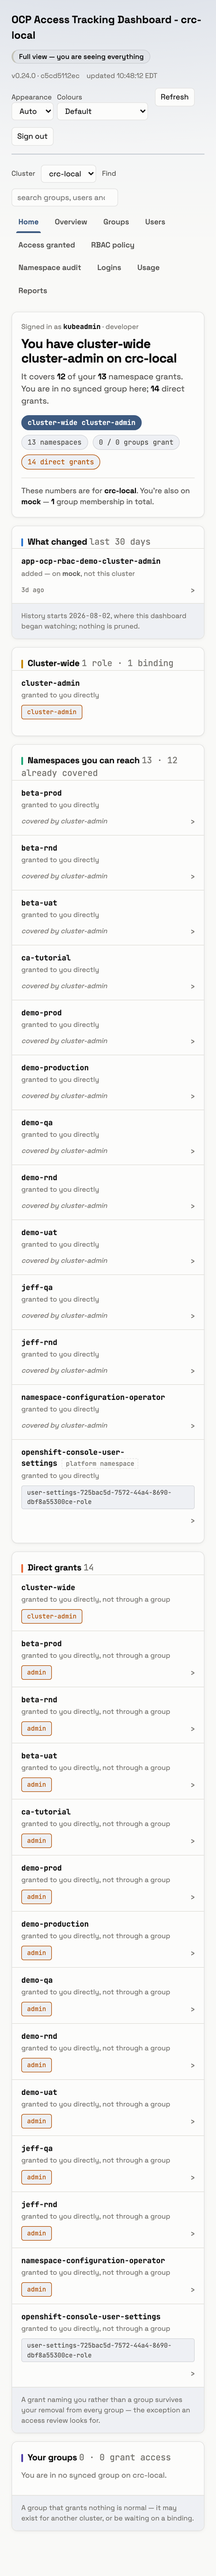
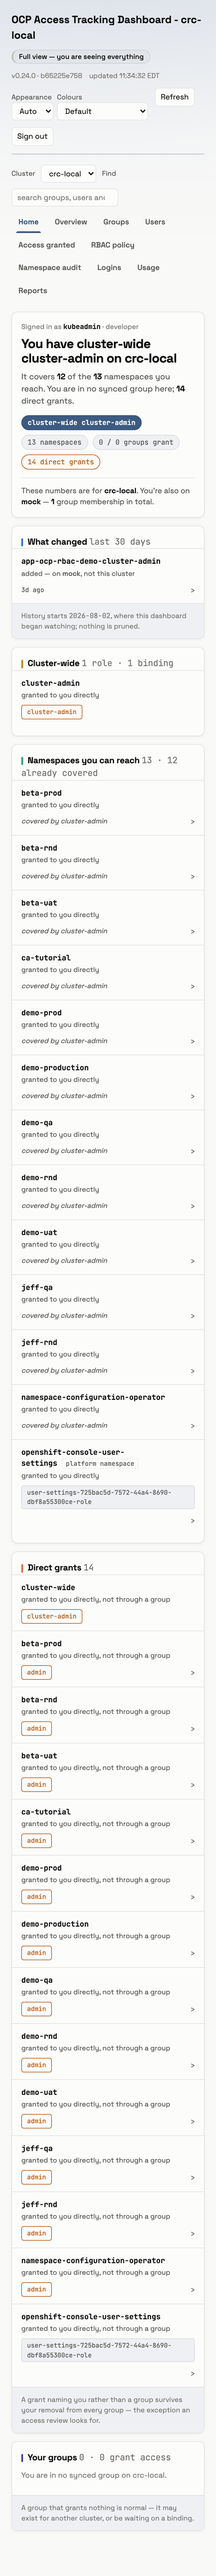
reports: recapture Home's live evidence at b65225e — the first pair showed the label Codex found by reading it
The captures committed at c5cd511 read 'covers 12 of your 13 namespace grants' over thirteen namespaces.
Codex found that mislabel by reading this folder, which is the argument for committing evidence rather
than describing it. The live pair is recaptured at b65225e, where it reads '12 of the 13 namespaces you
reach'; the README says which commit each picture is from and why the two differ.

diff --git a/reports/2026-09-18_home-158/README.md b/reports/2026-09-18_home-158/README.md
@@ -1,14 +1,21 @@
 # Home — the page every reader lands on (#158)
 
-Evidence for issue #158, captured 2026-09-18 at commit `c5cd511` on branch `feat/home` (PR #186).
-Application `0.24.0-c5cd5112ec`, chart `0.33.0`, on CRC (`crc-local`) with the mock cluster beside it.
+Evidence for issue #158, captured 2026-09-18 on branch `feat/home` (PR #186), on CRC (`crc-local`) with the
+mock cluster beside it, chart `0.33.0`.
+
+The live captures (`01`, `02`) are from **`b65225e`** (`0.24.0-b65225e758`); the tier pair (`03`–`06`) and
+the dark theme (`07`) are from `c5cd511`, which differs from `b65225e` only in copy and contrast, not in
+what those four pictures are there to show. The live pair was **recaptured**: the first version, taken at
+`c5cd511`, read *"covers 12 of your 13 namespace grants"* over thirteen namespaces — a mislabel Codex found
+by reading this very folder, which is the argument for committing evidence. It now reads *"12 of the 13
+namespaces you reach"*.
 
 This folder is what the page DID on that day, at that commit, for those readers — not what it is meant to
 do. Every claim in the Definition of Done below names the picture that shows it.
 
 | File | What it shows | Captured against |
 |---|---|---|
-| `01-home-crc-1440.png` | Home as `kubeadmin` on the live cluster: cluster-wide `cluster-admin`, 13 namespaces with 12 already covered by it, 14 direct grants, no synced groups, and the cross-cluster line naming the mock cluster | CRC, the deployed image |
+| `01-home-crc-1440.png` | Home as `kubeadmin` on the live cluster (recaptured at `b65225e`): cluster-wide `cluster-admin`, 13 namespaces with 12 already covered by it, 14 direct grants, no synced groups, and the cross-cluster line naming the mock cluster | CRC, the deployed image |
 | `02-home-crc-375.png` | The same page at 375 px, top to bottom, with no sideways scroll (halved from the 8910 px original so it opens in a browser) | CRC, the deployed image |
 | `03-tier-self-home.png` | A **narrowed** reader (`alice`, pill "Your view — alice") landing on Home and seeing her own access — no refusal | the seeded app, restrictions on |
 | `04-tier-self-overview-refusal.png` | The same reader one click away on the Overview: the administrator-tier refusal, unchanged by this issue | the seeded app, restrictions on |
